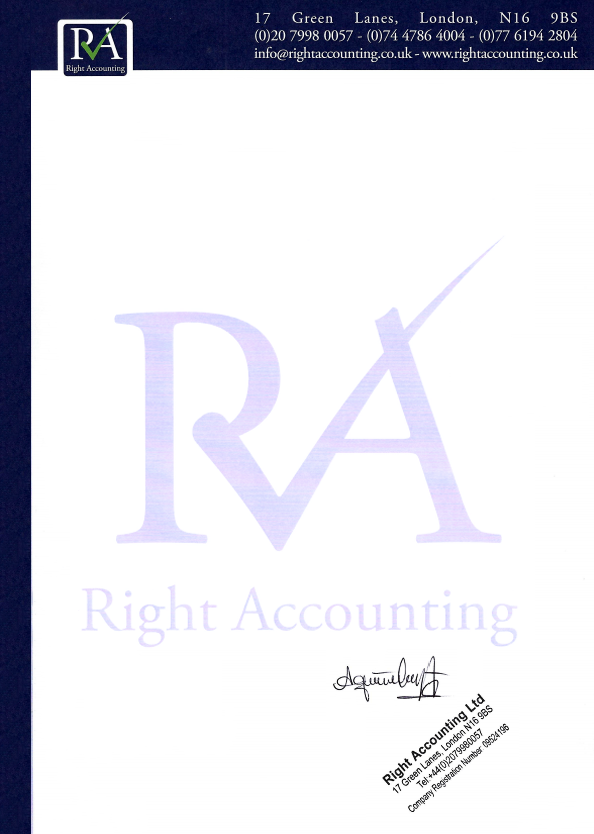
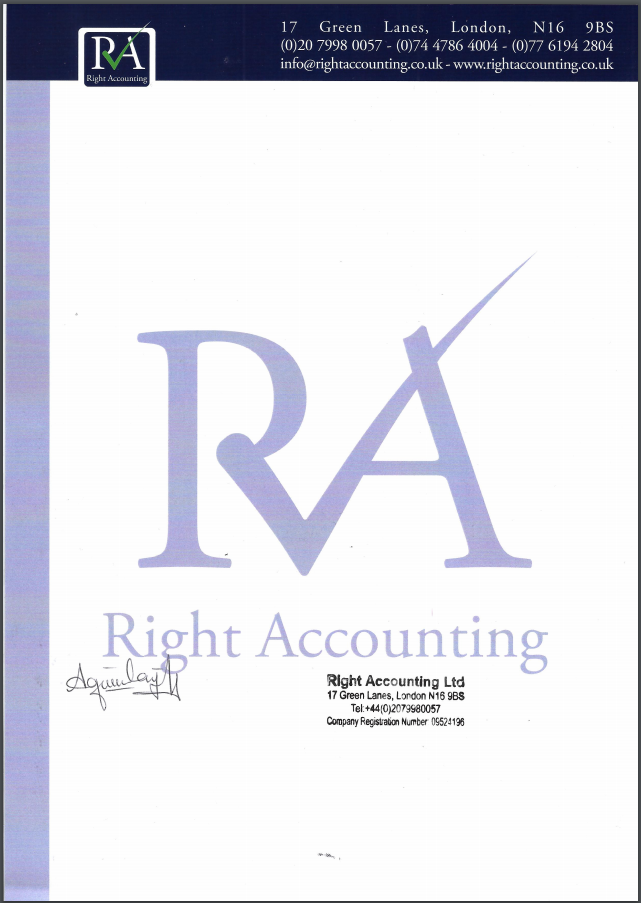
letter background değişikliği ve yazı rengi

diff --git a/src/app/main/letter/pages/CustomSentLettersList.tsx b/src/app/main/letter/pages/CustomSentLettersList.tsx
@@ -106,6 +106,8 @@ const styles = StyleSheet.create({
 		fontFamily: 'Times-Roman',
 		position: 'relative',
 		paddingHorizontal: 35,
+		fontWeight: 'bold',
+		color:'black',
 
 	},
 	text3: {
@@ -114,6 +116,8 @@ const styles = StyleSheet.create({
 		fontFamily: 'Times-Roman',
 		position: 'relative',
 		paddingHorizontal: 35,
+		fontWeight: 'bold',
+		color:'black',
 
 	},
 	image: {
